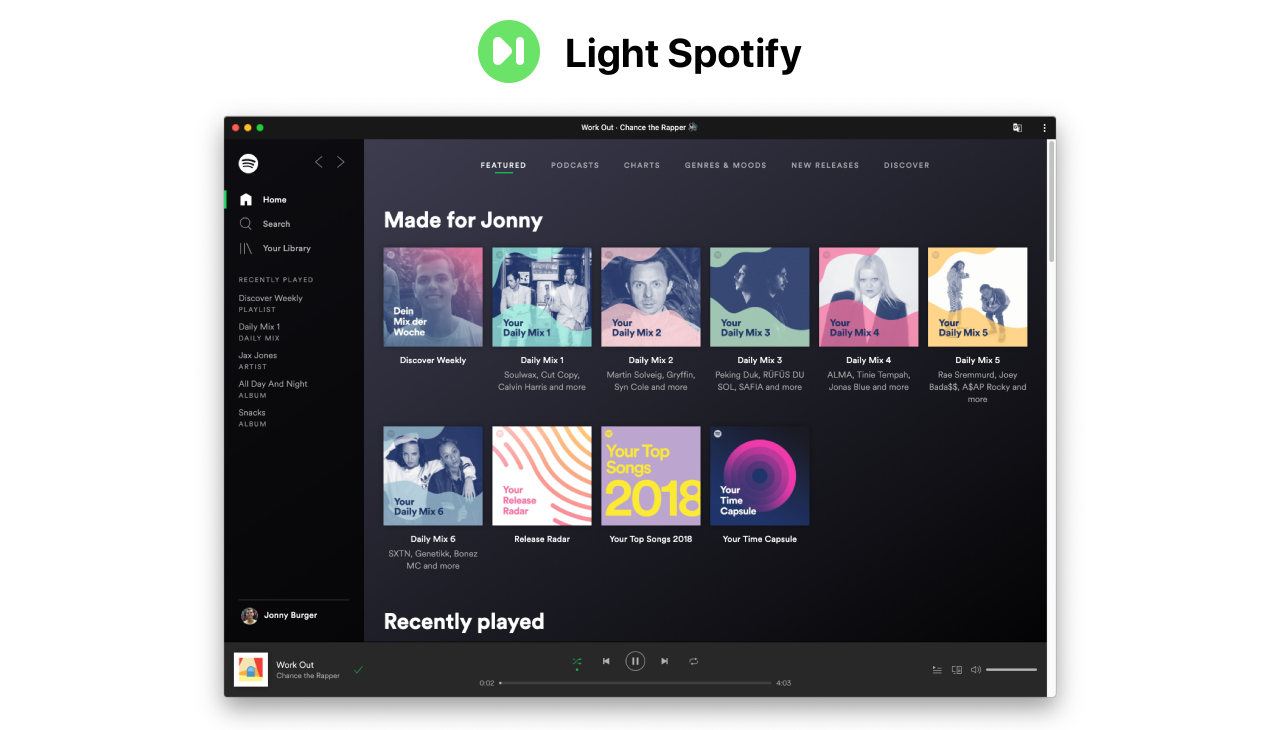
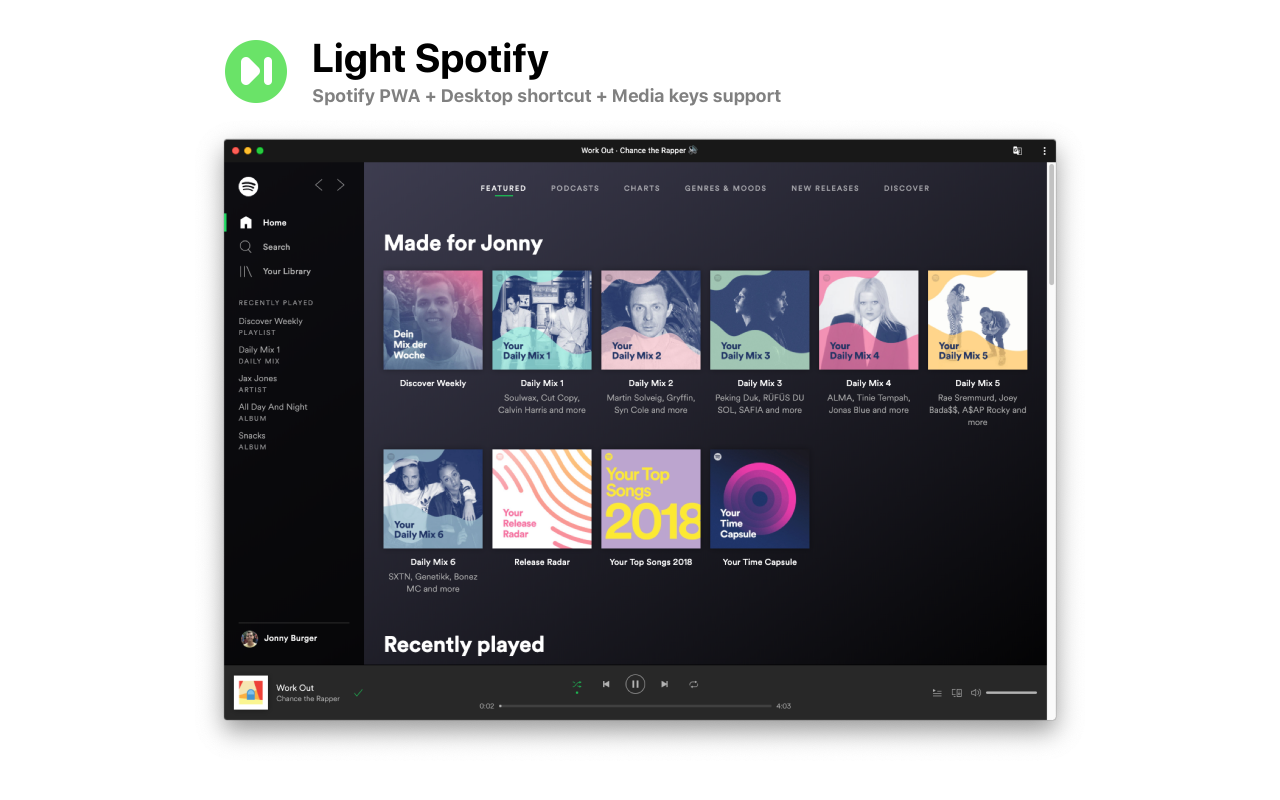
new header and smaller steps

diff --git a/README.md b/README.md
@@ -10,8 +10,7 @@
 * More minimalistic, snappier version of Spotify
 * Put in your tray and use your ⏪ ⏯ ⏩ buttons as your normal
 
-
-![Install Spotify Web Player as Desktop App](assets/step1.png)
+<img src="assets/step1.png" height="50" alt="Install Spotify Web Player as Desktop App"/>
 
 
 * Go to [https://open.spotify.com](https://open.spotify.com) to open the Spotify web player.
@@ -23,13 +22,13 @@
 
 ![Check 'Open as window'](assets/open-as-window.png)
 
-![Add it to your tray](assets/step2.png)
+<img src="assets/step2.png" height="50" alt="Add it to your tray">
 
 Drag the Spotify app to your tray for fast access.
 
 ![Check 'Open as window'](assets/spotify-web.gif)
 
-![Enable media shortcur keys](assets/step3.png)
+<img src="assets/step3.png" height="50" alt="Enable media shortcut keys">
 
 * Make sure you are running at least version 73 of Spotify
 * Go to [chrome://flags](chrome://flags)
